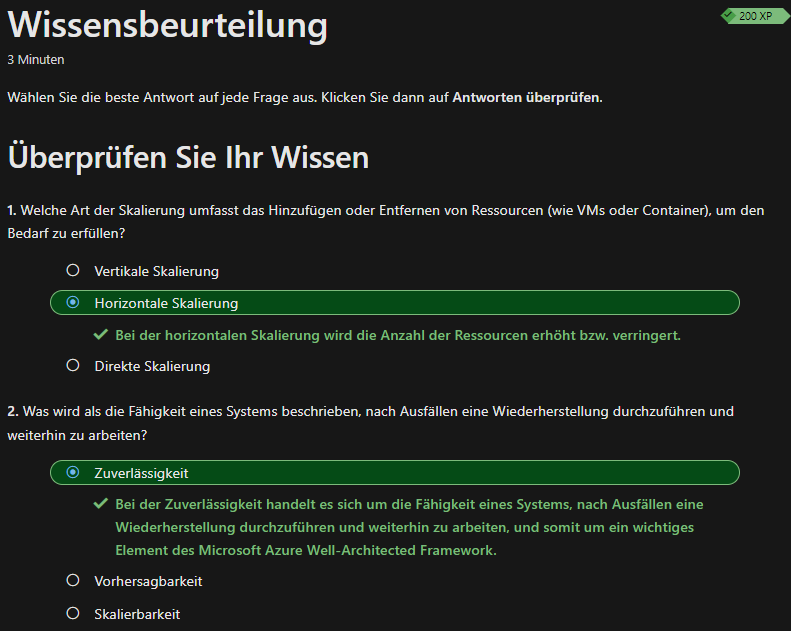
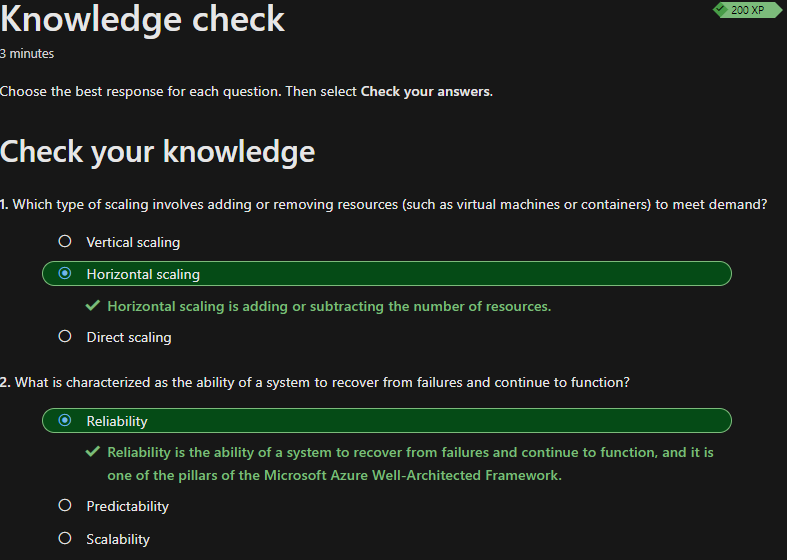
Finish Regions / Anpassung Englische Screens

diff --git a/2_Hauptteil/Beschreiben_der_wichtigsten_Architekturkomponenten_von_Azure.md b/2_Hauptteil/Beschreiben_der_wichtigsten_Architekturkomponenten_von_Azure.md
@@ -2,14 +2,28 @@
 
 Was Microsoft Azure ist, habe ich bereits in der [hier](../../1_Einleitung/Microsoft_Azure.md) in der Einleitung beschrieben. Das ganze Thema *Architekturkomponenten von Azure* kannte ich noch nicht, weshalb ich die gelernten Themen hier aufliste: 
 
-- Azure-Regionen, Regionspaaren und souveränen Regionen
-- Verfügbarkeitszonen
-- Azure-Rechenzentren
-- Azure-Ressourcen und -Ressourcengruppen
-- Abonnements
-- Verwaltungsgruppen
-- Hierarchie von Ressourcengruppen, Abonnements und Verwaltungsgruppen
+-  Azure regions, region pairs, and sovereign regions
+-  Availability Zones
+-  Azure datacenters
+-  Azure resources and Resource Groups
+-  subscriptions
+-  management groups
+-  the hierarchy of resource groups, subscriptions, and management groups
 
+Die Fachbegriffe habe ich jetzt Englisch dokumentiert, damit ich es an der Zertifizierung einfacher habe.
+
+### Azure regions, region pairs, and sovereign regions
+
+#### Azure physical infrastructure
+
+Die physische Infrastruktur von Azure ist konzeptionell vergleichbar mit einem Unternehmensrechenzentrum. Die Ressourcen sind in Racks angeordnet und verfügen über dedizierte Energie, Kühl - und Netzwerkinfrastrukturen. Azure hat Rechenzentren auf der ganzen Welt. Auf diese einzelnen Rechenzentren haben wir aber keinen direkten Zugriff. Die Rechenzentren werden in *Azure Regions oder Azure Availability Zones* gruppiert. Diese helfen dem Konsumenten, die Resilienz und Zuverlässigkeit für kritische Workload's zu erreichen.
+
+#### Regions
+
+In einer Region, welche ein geografischer Bereich auf der Erde ist, befindet sich mindestens ein, möglicherweise jedoch mehrere, Rechenzenter. Diese sind nicht weit voneinander entfernt über ein Netzwerk mit geringer Latenz miteinander verbunden. Ressourcen werden von Azure innerhalb jeder Region intelligent zugewiesen und kontrolliert. Somit wird gewährleistet, dass die Workload's gleichmässig verteilt werden.
+
+
+#### Availability Zones
 
 
 ## Inhaltsverzeichnis

diff --git a/2_Hauptteil/Beschreiben_der_Vorteile_der_Verwendung_von_Clouddiensten.md b/2_Hauptteil/Beschreiben_der_Vorteile_der_Verwendung_von_Clouddiensten.md
@@ -2,10 +2,10 @@
 
 Das Thema *Vorteile der Verwendung von Clouddiensten* enthält einige Punkte, welche ich noch nicht kannte, weshalb ich die zu behandelnden Themen hier aufliste:
 
--   Vorteile der Hochverfügbarkeit und Skalierbarkeit in der Cloud
--   Vorteile der Zuverlässigkeit und Vorhersagbarkeit in der Cloud
--   Vorteile der Sicherheit und Governance in der Cloud
--   Vorteile der Verwaltbarkeit in der Cloud
+-  Hochverfügbarkeit und Skalierbarkeit in der Cloud
+-  Zuverlässigkeit und Vorhersagbarkeit in der Cloud
+-  Sicherheit und Governance in der Cloud
+-  Verwaltbarkeit in der Cloud
 
 Ich werde die neu erlernten Themen zusammenfassen und am Ende eine kurze Reflexion über das gelernte schreiben.
 

diff --git a/2_Hauptteil/Beschreiben_des_Cloud_Computings.md b/2_Hauptteil/Beschreiben_des_Cloud_Computings.md
@@ -43,9 +43,7 @@ OpEx sind die fortlaufenden Kosten, welche für bezogene Dienstleistungen ausgeg
 
 Zum Schluss habe ich den Wissenscheck erfolgreich absolviert und kann nun mit dem nächsten Thema starten.
 
-![1. Wissensbeurteilung](../ressources/Wissenscheck_GrundlegendeszucloudComputing.jpg)
-
-![2. Wissensbeurteilung](../ressources/2_Wissensbeuurteilung.png)
+![2. Wissensbeurteilung](../ressources/Wissensbeuurteilung_Cloudcomputing.png)
 
 ### Kurze Reflexion
 

diff --git a/2_Hauptteil/Grundlegendes_zu_Clouddiensttypen.md b/2_Hauptteil/Grundlegendes_zu_Clouddiensttypen.md
@@ -50,7 +50,7 @@ Da mir die Szenarien im Learning-Path nicht ausgereicht haben, habe ich ChatGPT 
 
 Zum Schluss habe ich den Wissenscheck erfolgreich absolviert und kann nun mit dem nächsten Thema starten.
 
-![4. Wissensbeurteilung](../ressources/Wissensbeuurteilung_Clouddiensttypen.png)
+![4. Wissensbeurteilung](../ressources/Wissensbeurteilung_Clouddiensttypen.png)
 
 ### Kurze Reflexion
 
